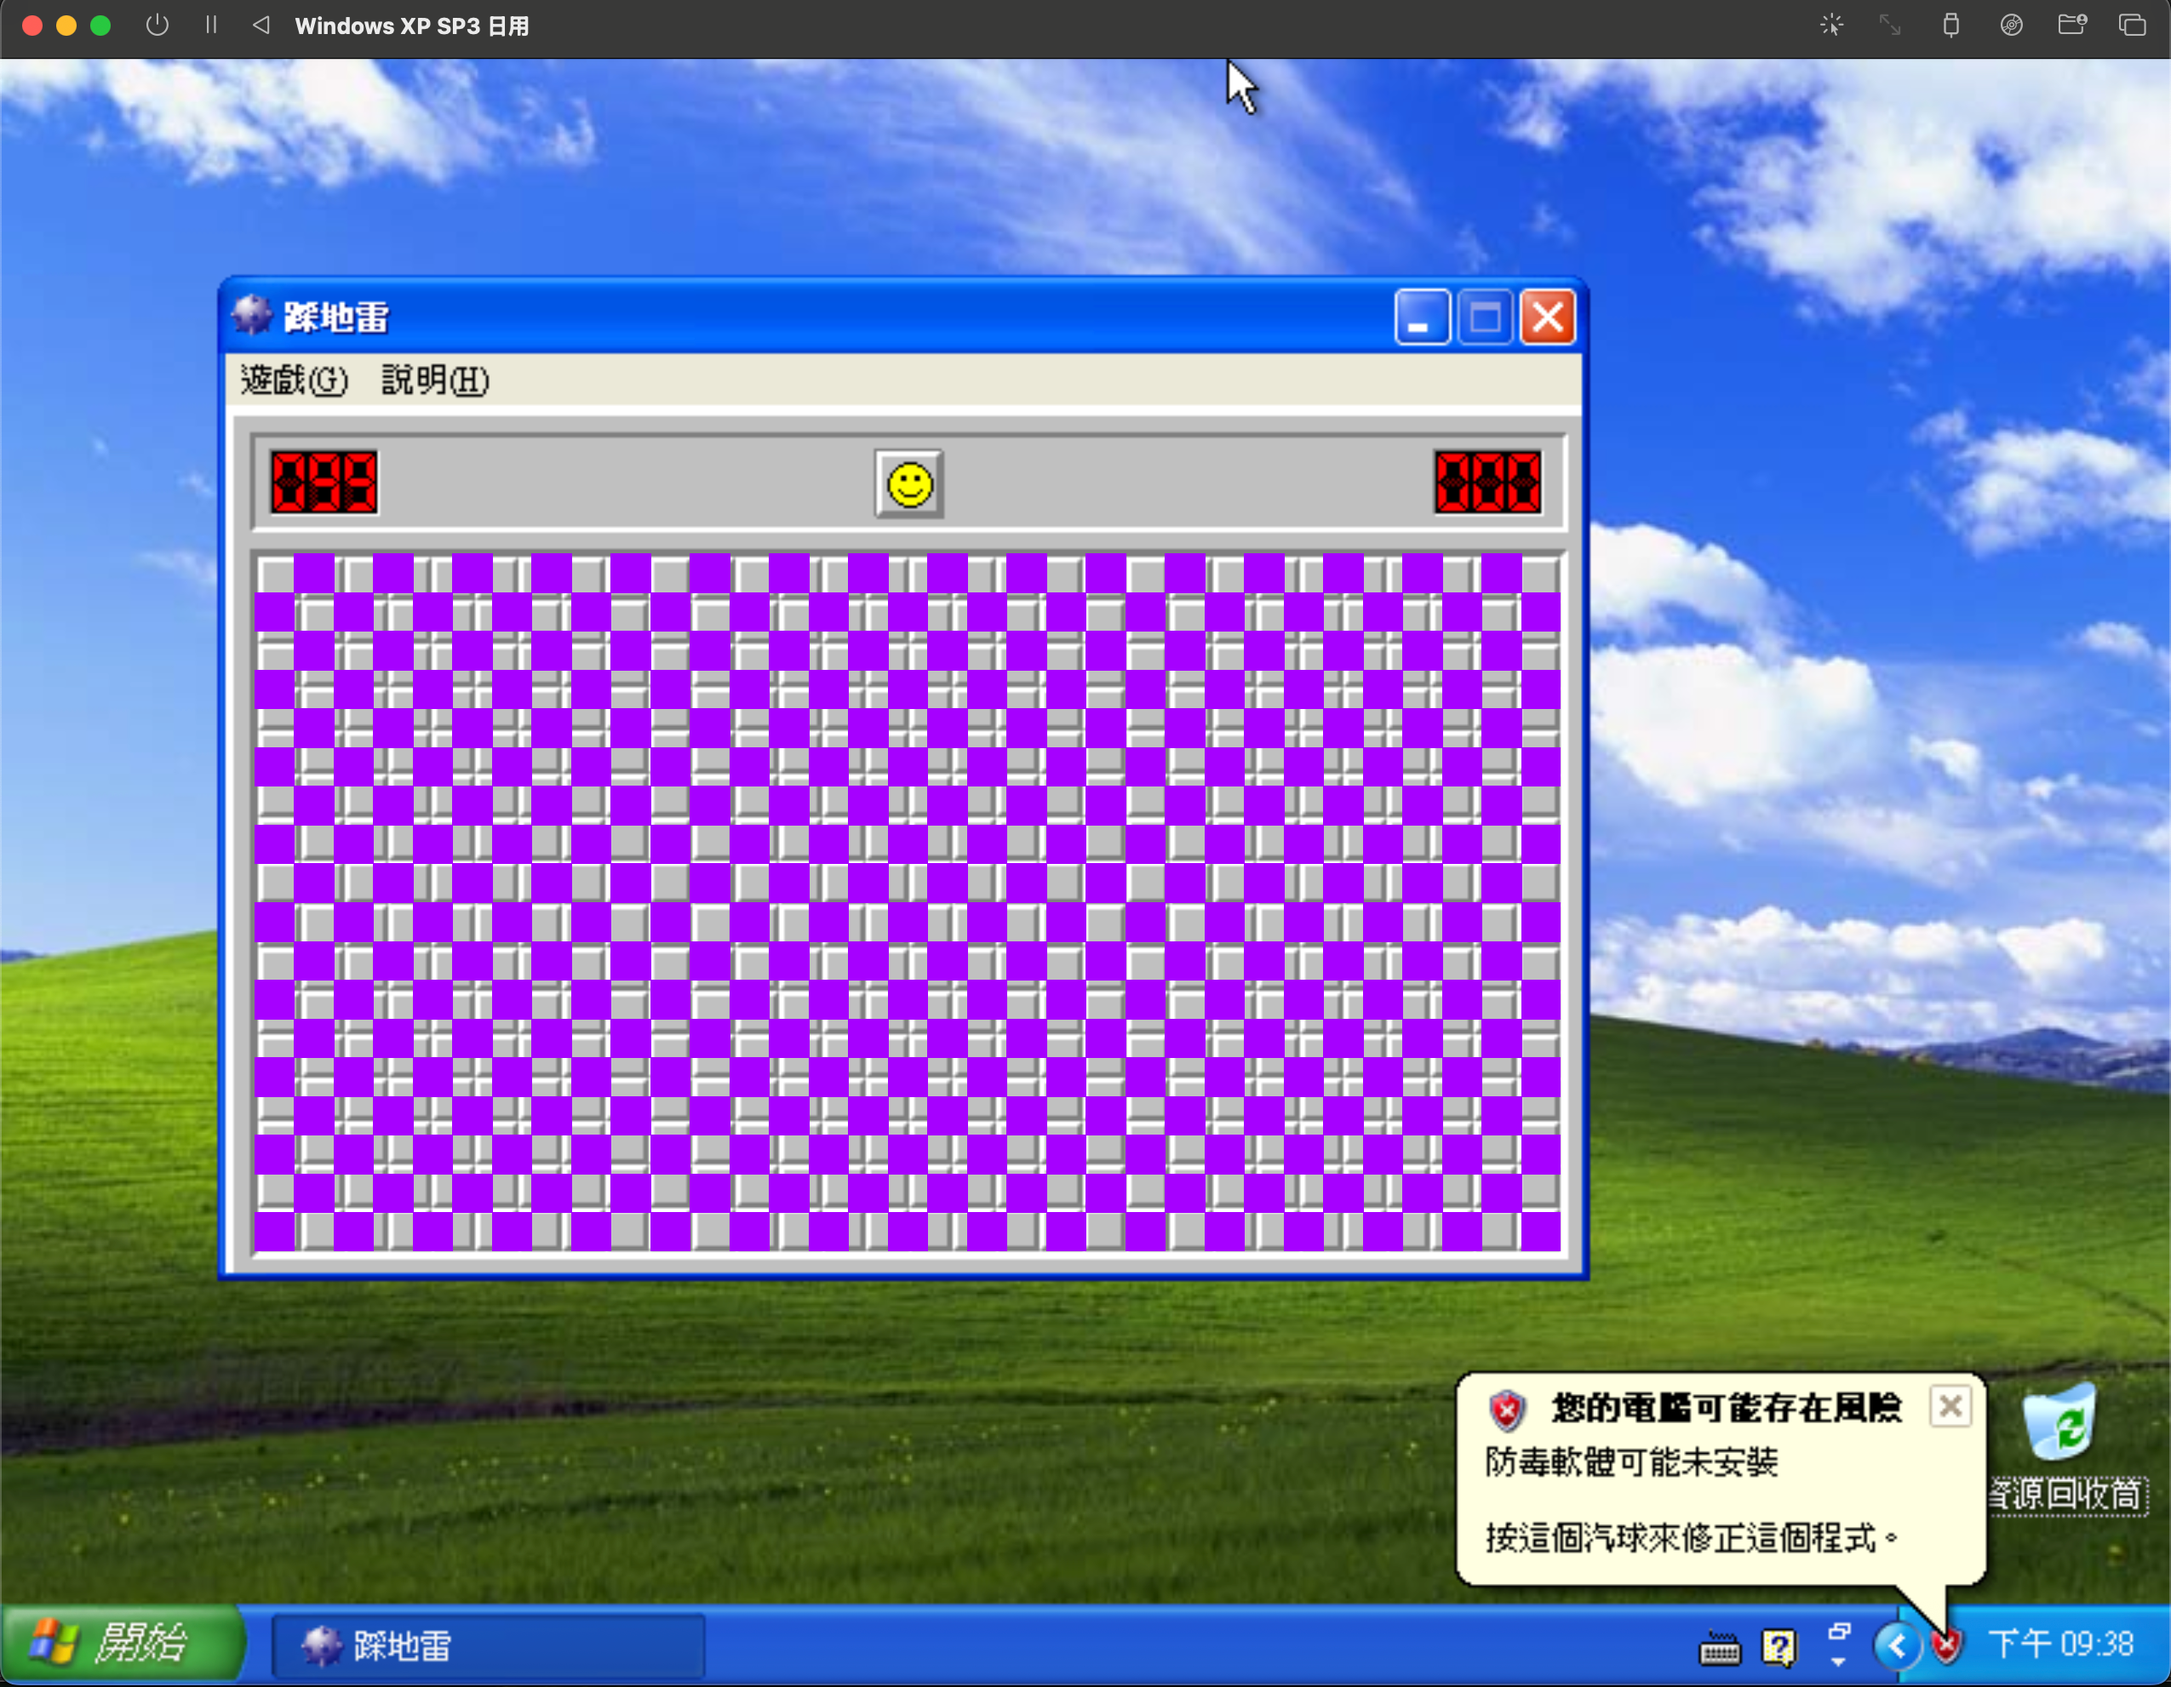
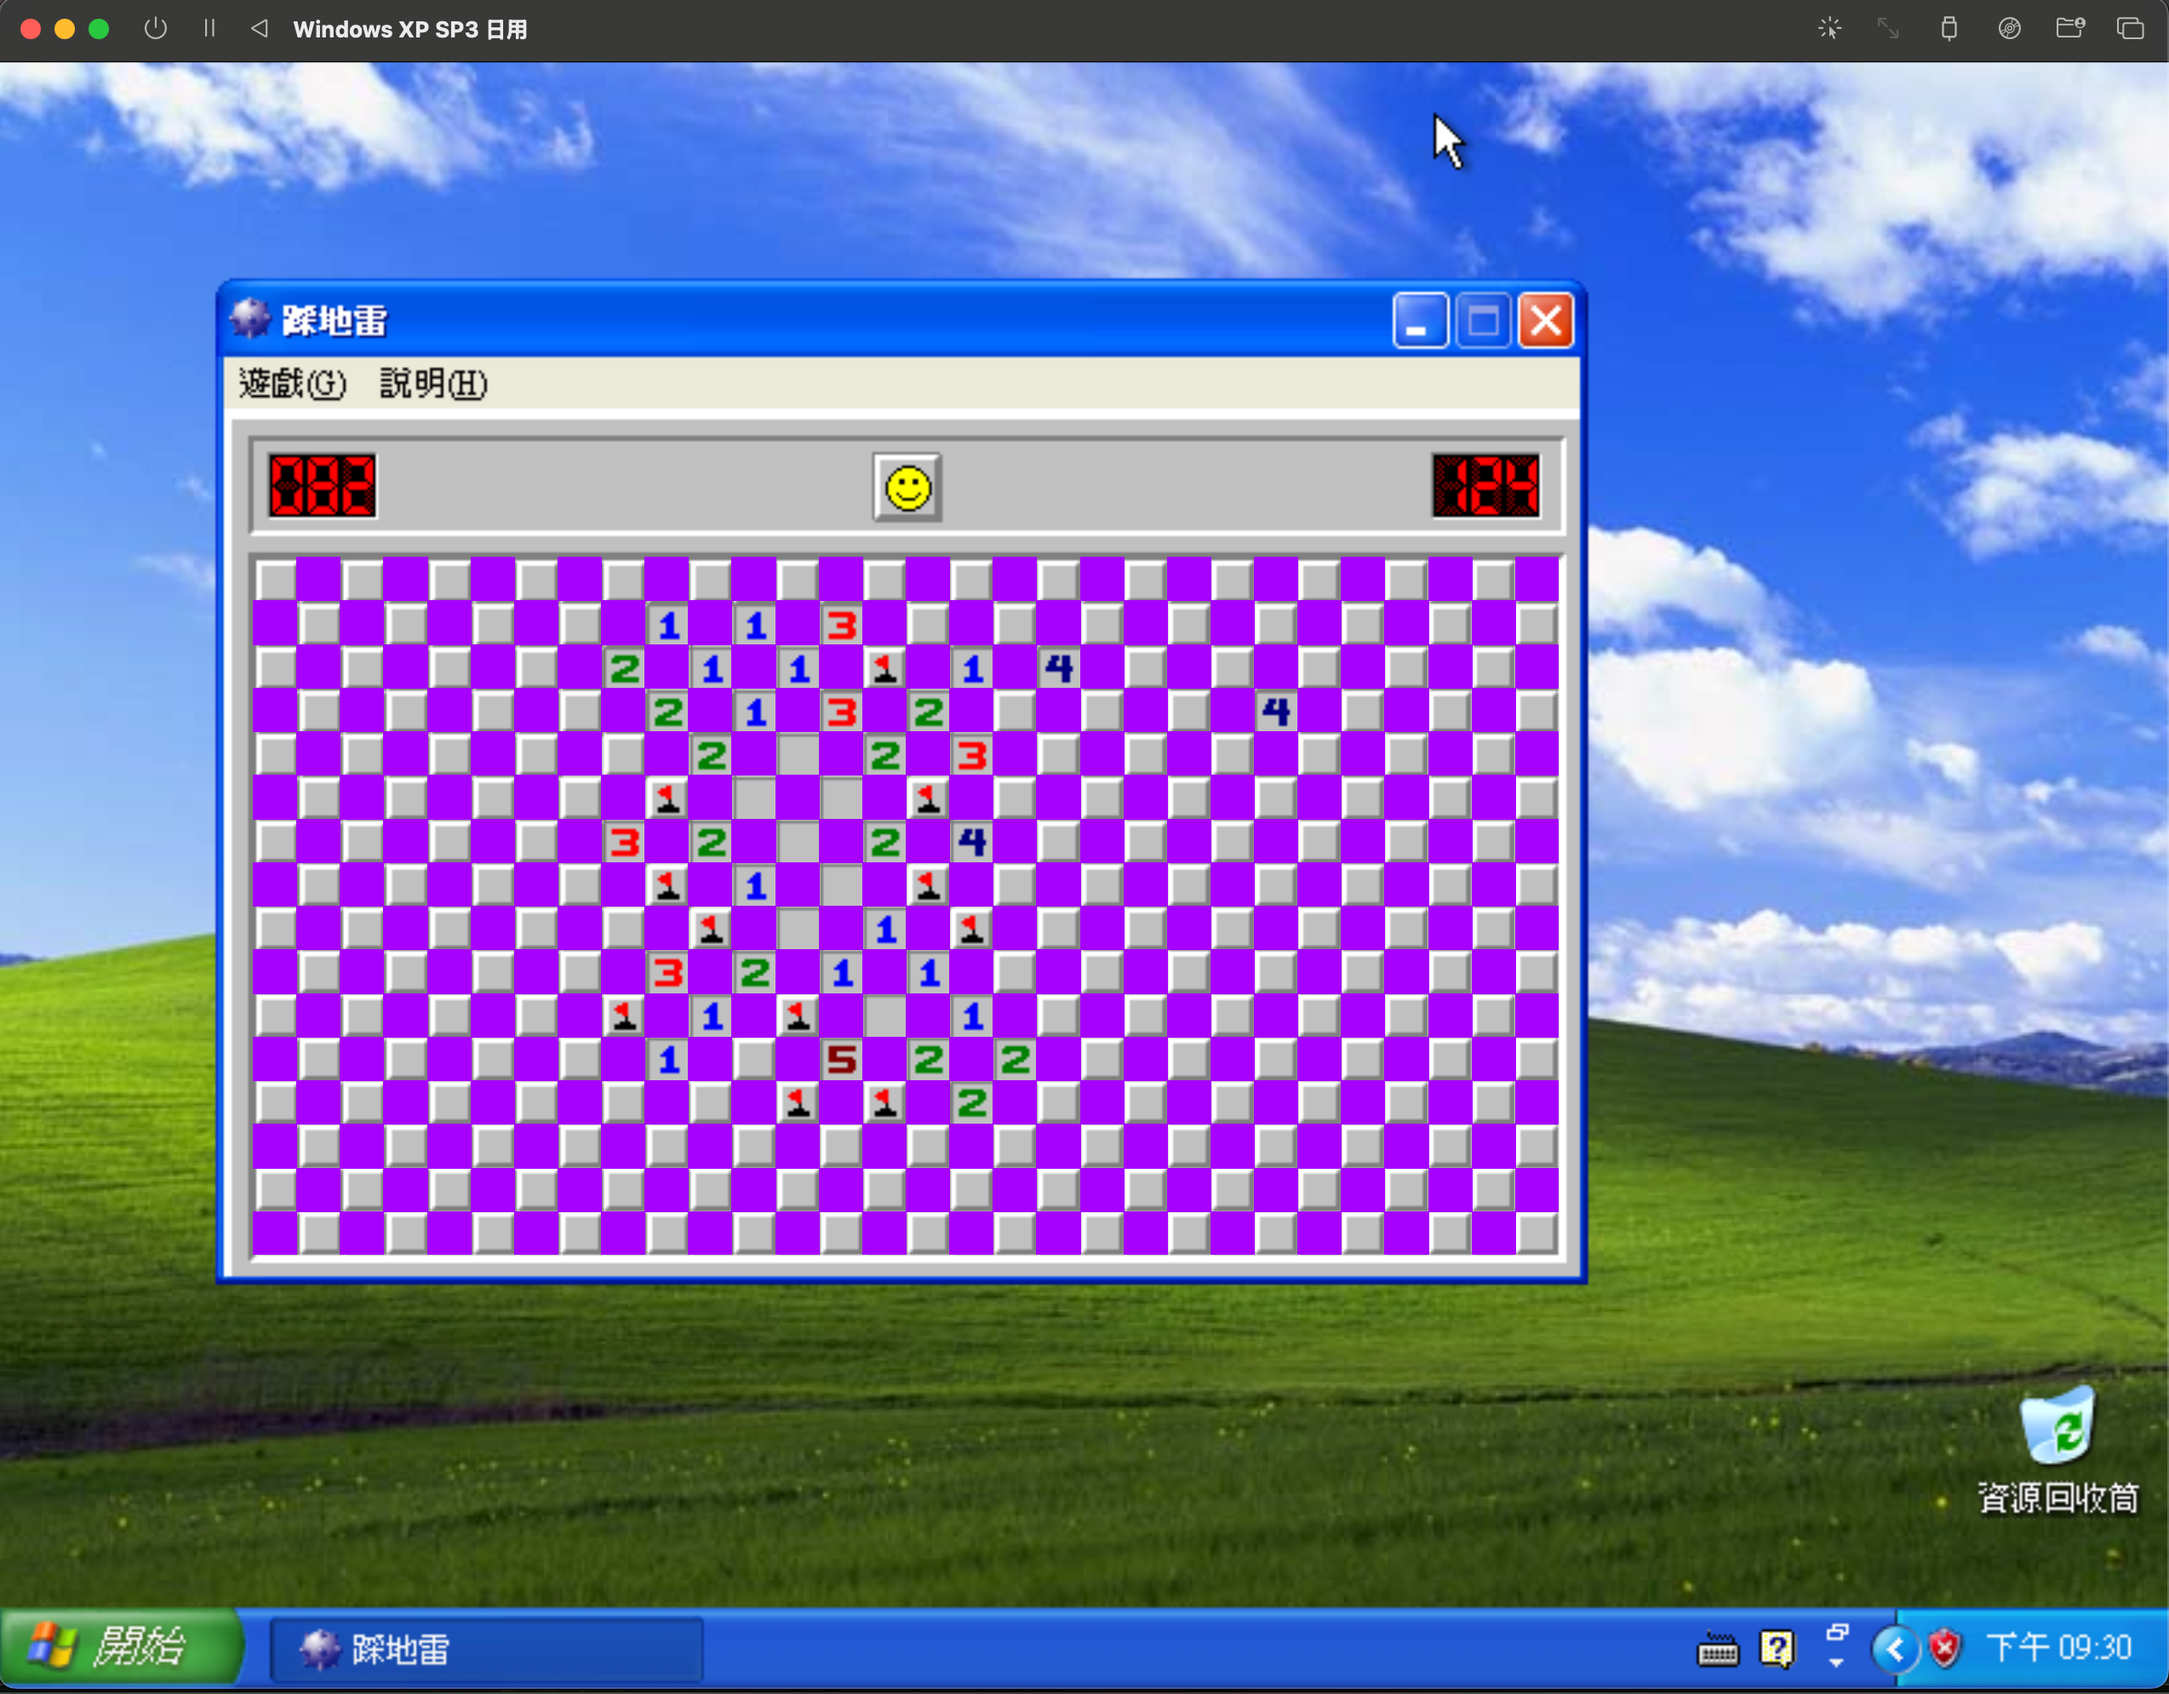
Update.

diff --git a/src/MinesweeperScanner.java b/src/MinesweeperScanner.java
@@ -10,7 +10,19 @@ public class MinesweeperScanner {
     public static final int board_border[][] = {{131, 131, 131}, {255, 255, 255}};
     public static final int split_grid_line[][] = {{130, 130, 130}};
     public static final int number_to_compute_average_grid_size = 10;
-    static int grid_size[];
+    int grid_size[];
+
+    public MinesweeperScanner(int width, int height) {
+        grid_size = new int[]{width, height};
+    }
+
+    public MinesweeperScanner(int grid_size[]) {
+        assert grid_size != null && grid_size.length == 2;
+        this.grid_size = grid_size;
+    }
+
+    public MinesweeperScanner() {
+    }
 
     public static boolean rgb_equal(int rgb_1[], int rgb_2[]) {
         return rgb_1[0] == rgb_2[0] && rgb_1[1] == rgb_2[1] && rgb_1[2] == rgb_2[2];
@@ -348,7 +360,7 @@ public class MinesweeperScanner {
         }
     }
 
-    public static MinesweeperState scan(ScreenData screen) {
+    public MinesweeperState scan(ScreenData screen) {
         assert screen != null;
         int panel_coordinates[] = find_panel_coordinates(screen);
         int remaining_mines_and_times_coordinates[] = find_remaining_mines_and_time_coordinates(screen, panel_coordinates);
@@ -376,11 +388,12 @@ public class MinesweeperScanner {
 
     public static void main(String[] args) {
 //        ScreenData screen = ScreenCapture.load_screen_from_file("test_images/empty.png");
-        ScreenData screen = ScreenCapture.load_screen_from_file("test_images/empty_xp.png");
+//        ScreenData screen = ScreenCapture.load_screen_from_file("test_images/empty_xp.png");
 //        ScreenData screen = ScreenCapture.load_screen_from_file("test_images/process.png");
-//        ScreenData screen = ScreenCapture.load_screen_from_file("test_images/process_xp.png");
+        ScreenData screen = ScreenCapture.load_screen_from_file("test_images/process_xp.png");
 //        ScreenData screen = ScreenCapture.load_screen_from_file("test_images/final.png");
 //        ScreenData screen = ScreenCapture.load_screen_from_file("test_images/final_xp.png");
-        MinesweeperState state = scan(screen);
+        MinesweeperScanner scanner = new MinesweeperScanner();
+        MinesweeperState state = scanner.scan(screen);
     }
 }
